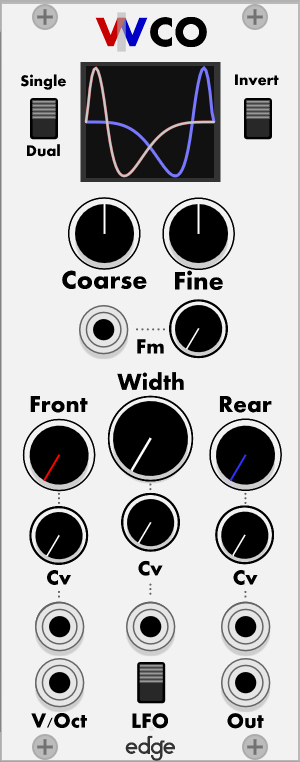
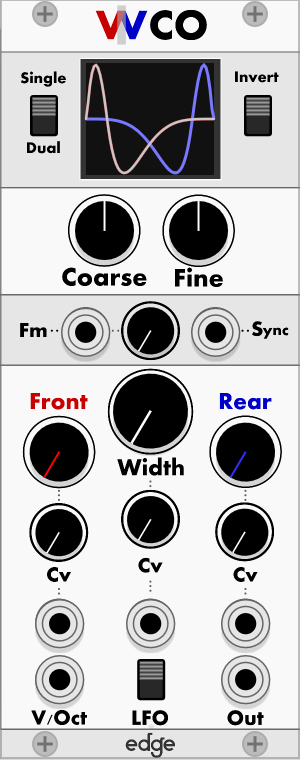
Add Sync to WCO + Rebuild interface + change on pitch and fm
Change on reading the wavetable on K-ru5h

diff --git a/src/WCO_Osc.cpp b/src/WCO_Osc.cpp
@@ -99,14 +99,11 @@ struct VoltageControlledOscillator {
 		//}
 		pitch += pitchCv;
 		// Note C4
-		if(_lfo_param == 1){
-          freq = 261.626f * powf(2.0f, pitch / 12.0f);
-          freq = clamp(freq,1.0f,10000.0f);
+		freq = 261.626f * powf(2.0f, pitch / 12.0f);
+		if(_lfo_param == 0){
+          freq = freq/100;
 		}
-		else{
-            pitch = fminf(pitch, 10.0f);
-            freq = powf(2.0f, pitch);
-		}
+
 
 	}
 
@@ -175,7 +172,7 @@ struct VoltageControlledOscillator {
   	}
 
 
-	void process(float deltaTime, float syncValue, float mode) {
+	void process(float deltaTime, float syncValue) {
 
 		float deltaPhaseOver = clamp(freq * deltaTime, 1e-6, 0.5f)*(1.0f / OVERSAMPLE);
 
@@ -357,6 +354,7 @@ struct WCO_Osc : Module {
 	};
 	enum InputIds {
 	    FM_INPUT,
+	    SYNK_INPUT,
 		PITCH_INPUT,
 		FRONT_INPUT,
 		WIDTH_INPUT,
@@ -405,12 +403,17 @@ void WCO_Osc::step() {
     }
 	float pitchFine = 3.0f * quadraticBipolar(params[FINE_PARAM].value);
 	float pitchCv = 12.0f * inputs[PITCH_INPUT].value;
-	if ((inputs[FM_INPUT].active || inputs[FM_INPUT].value != l_FM_INPUT )&& params[LFO_NOISE_PARAM].value != 0 ) {
+	if (inputs[FM_INPUT].active || inputs[FM_INPUT].value != l_FM_INPUT ) {
 		pitchCv += quadraticBipolar(params[FM_PARAM].value) * 12.0f * inputs[FM_INPUT].value;
 	}
 	oscillator.setPitch(params[FREQ_PARAM].value, pitchFine + pitchCv,params[LFO_NOISE_PARAM].value);
 	oscillator.setPulseWidth(0.5f);//oscillator.setPulseWidth(params[PW_PARAM].value + params[WIDTH_PARAM].value * inputs[PW_INPUT].value / 10.0f);
-	oscillator.syncEnabled = !params[LFO_NOISE_PARAM].value;
+	if(inputs[SYNK_INPUT].active)
+        oscillator.syncEnabled = 1;
+    else
+        oscillator.syncEnabled = 0;
+
+
     oscillator.setInvert(params[INVERT_PARAM].value);
 
 
@@ -421,12 +424,8 @@ void WCO_Osc::step() {
     if( ( params[FRONT_PARAM].value != l_FRONT_PARAM ) || (params[CV_FRONT_PARAM].value != l_CV_FRONT_PARAM ) || (inputs[FRONT_INPUT].value != l_FRONT_INPUT) || ( params[REAR_PARAM].value != l_REAR_PARAM ) || (params[CV_REAR_PARAM].value != l_CV_REAR_PARAM ) || (inputs[REAR_INPUT].value != l_REAR_INPUT) || oscillator.tab_loaded == false ){
         oscillator.setWaves( params[FRONT_PARAM].value+(params[CV_FRONT_PARAM].value*(inputs[FRONT_INPUT].value/10)),params[REAR_PARAM].value+(params[CV_REAR_PARAM].value*(inputs[REAR_INPUT].value/10)));
 	}
-	if(params[LFO_NOISE_PARAM].value == 0 ){
-        oscillator.process(engineGetSampleTime(), inputs[FM_INPUT].value,1);
-	}
-	else{
-        oscillator.process(engineGetSampleTime(),0.0f,0);
-	}
+
+    oscillator.process(engineGetSampleTime(), inputs[SYNK_INPUT].value);
 
 	// Set output
 	if (outputs[OUTPUT].active)
@@ -652,17 +651,18 @@ WCO_OscWidget::WCO_OscWidget(WCO_Osc *module) : ModuleWidget(module) {
 
 
     addParam(ParamWidget::create<EdgeRedKnob>(Vec(14.8, 211.8), module, WCO_Osc::FRONT_PARAM, 0.0f, 1.0f, 0.0f));
-	addParam(ParamWidget::create<RoundLargeBlackKnob>(Vec(56.5, 199.5), module, WCO_Osc::WIDTH_PARAM, 0.0f, 1.0f, 0.0f));
+	addParam(ParamWidget::create<RoundLargeBlackKnob>(Vec(56.5, 187.3), module, WCO_Osc::WIDTH_PARAM, 0.0f, 1.0f, 0.0f));
 	addParam(ParamWidget::create<EdgeBlueKnob>(Vec(108, 211.8), module, WCO_Osc::REAR_PARAM, 0.0f, 1.0f, 0.0f));
 	addParam(ParamWidget::create<RoundSmallBlackKnob>(Vec(17.7, 255), module, WCO_Osc::CV_FRONT_PARAM, 0.0f, 1.0f, 0.0f));
 	addParam(ParamWidget::create<RoundSmallBlackKnob>(Vec(63.5, 248.5), module, WCO_Osc::CV_WIDTH_PARAM, 0.0f, 1.0f, 0.0f));
 	addParam(ParamWidget::create<RoundSmallBlackKnob>(Vec(110.6, 254.8), module, WCO_Osc::CV_REAR_PARAM, 0.0f, 1.0f, 0.0f));
     addParam(ParamWidget::create<RoundBlackKnob>(Vec(37.5, 101), module, WCO_Osc::FREQ_PARAM, -54.0f, 54.0f, 0.0f));
     addParam(ParamWidget::create<RoundBlackKnob>(Vec(84.5, 101), module, WCO_Osc::FINE_PARAM, -1.0f, 1.0f, 0.0f));
-	addParam(ParamWidget::create<RoundSmallBlackKnob>(Vec(87.5, 151.5), module, WCO_Osc::FM_PARAM, 0.0f, 1.0f, 0.0f));
+	addParam(ParamWidget::create<RoundSmallBlackKnob>(Vec(63.5, 154.1), module, WCO_Osc::FM_PARAM, 0.0f, 1.0f, 0.0f));
 
 
-	addInput(Port::create<PJ301MPort>(Vec(39.5, 151.5), Port::INPUT, module, WCO_Osc::FM_INPUT));
+	addInput(Port::create<PJ301MPort>(Vec(30.5, 154.3), Port::INPUT, module, WCO_Osc::FM_INPUT));
+	addInput(Port::create<PJ301MPort>(Vec(95.5, 154.3), Port::INPUT, module, WCO_Osc::SYNK_INPUT));
 	addOutput(Port::create<PJ301MPort>(Vec(110.5, 328), Port::OUTPUT, module, WCO_Osc::OUTPUT));
 	addInput(Port::create<PJ301MPort>(Vec(17.5, 328), Port::INPUT, module, WCO_Osc::PITCH_INPUT));
     addInput(Port::create<PJ301MPort>(Vec(17.5, 300), Port::INPUT, module, WCO_Osc::FRONT_INPUT));

diff --git a/src/K_Rush.cpp b/src/K_Rush.cpp
@@ -13,10 +13,6 @@
 using namespace std;
 
 
-inline float clip(float x) {
-	return tanhf(x);
-}
-
 /**Diode -> in  -1V / +1V **/
 struct Diode{
     float offset,limit1,limit2,phase_in, phase_out = 0.0f;
@@ -193,7 +189,7 @@ struct Diode{
             //Ov_Buffer[i] =  Ov_Buffer[i]-((gain-1)*interpolateLinear(wave[type],index));
             //if (abs_in>1.0f)
             if(abs_in!=0.0f)
-                abs_in -= (clamp((gain-1.0f),0.0f,8.0f)/2)*clamp(abs_in* ((interpolateLinear(wave[type],index))),0.0f,4.0f);
+                abs_in -= (clamp((gain-1.0f),0.0f,8.0f))*clamp(abs_in* ((interpolateLinear(wave[type],index)+0.5f)),0.0f,4.0f);
 
             if(phase_in>0.0f)
                 Ov_Buffer[i] = phase_in*abs_in;
